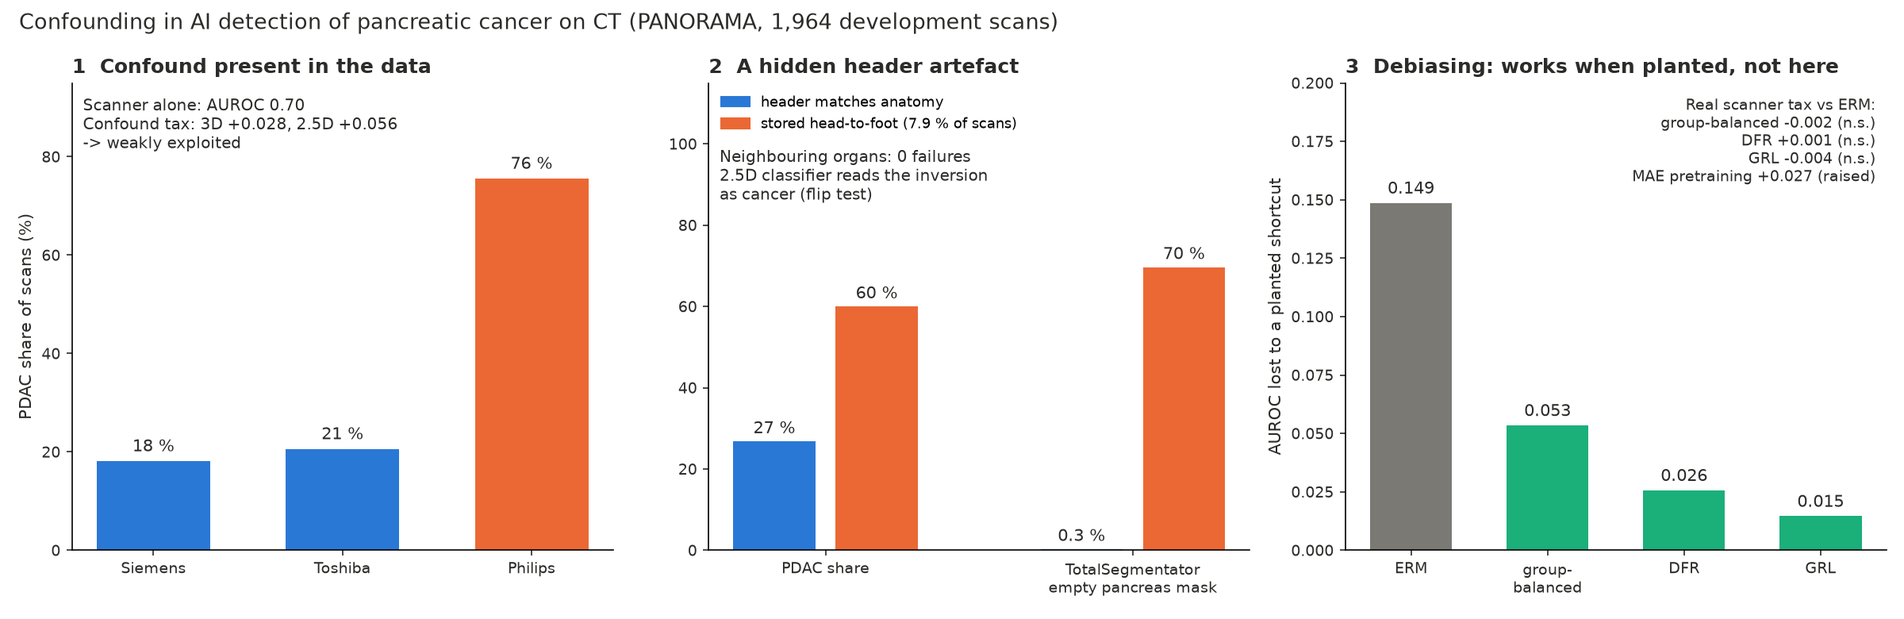
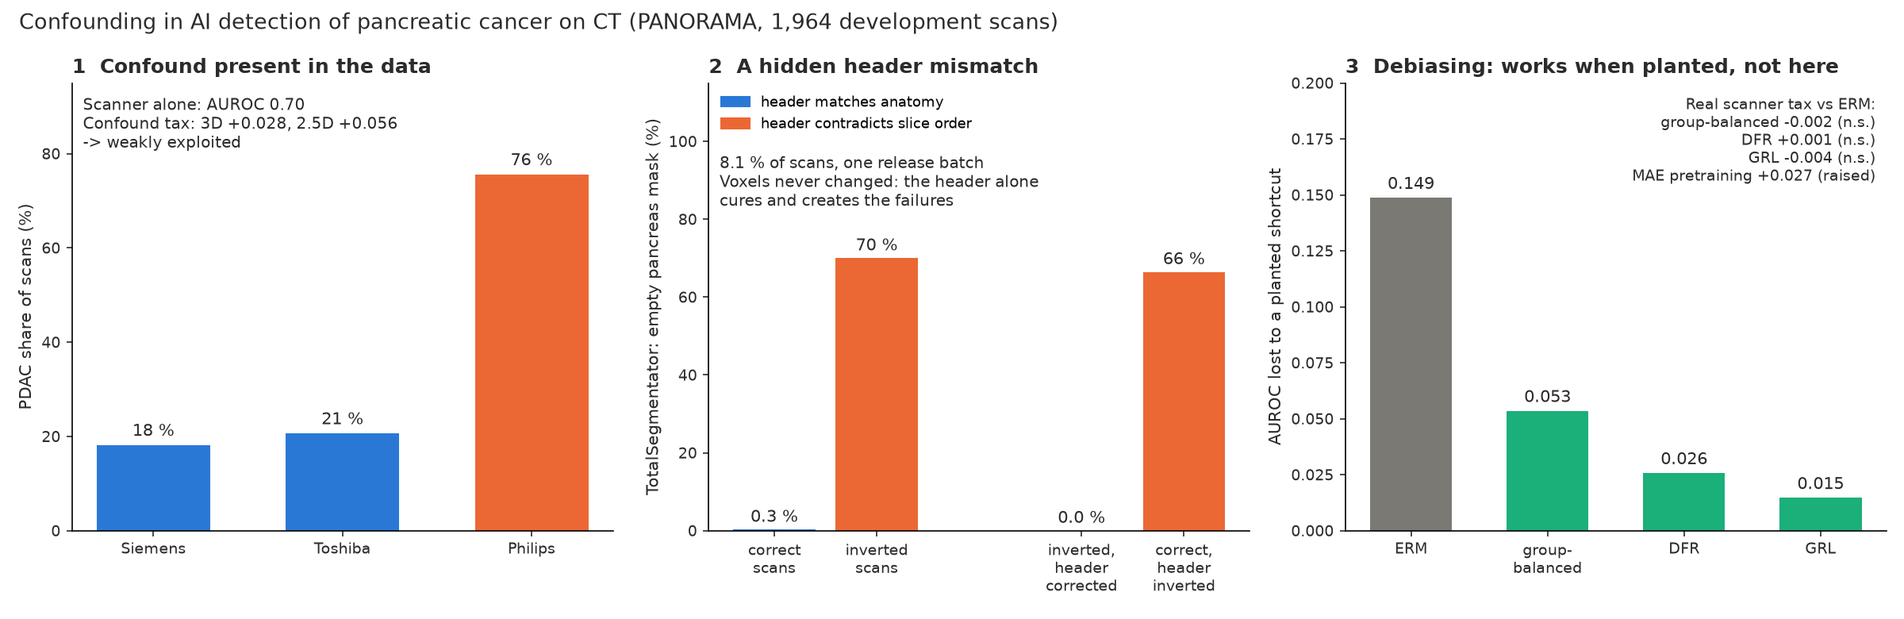
Orientation docs corrected: 160 scans, header shown as the cause, no cancer link within the batch; graphical abstract redrawn

diff --git a/tools/plot_graphical_abstract.py b/tools/plot_graphical_abstract.py
@@ -2,7 +2,7 @@
 
 Three panels, numbers read from the committed result tables:
   1. the confound in the data: PDAC share by scanner manufacturer; scanner-only AUROC and the two models' confound tax
-  2. the header artefact: PDAC share and TotalSegmentator failure rate, inverted vs correctly oriented scans
+  2. the header mismatch: TotalSegmentator failure rate as stored and with only the header corrected or inverted
   3. debiasing: AUROC lost to a planted shortcut (ERM vs debiasers) next to the change in the real scanner tax
 
     python tools/plot_graphical_abstract.py
@@ -29,10 +29,14 @@ def style(ax):
 def main():
     cv = pd.read_csv("reports/nnunet_summaries/tight_battery/cv_scores.csv")
     share = cv[cv.scanner.isin(["Siemens", "Toshiba", "Philips"])].groupby("scanner").y.mean().mul(100)
-    o = pd.read_csv("reports/deployment_roi/orientation_summary.csv")
-    seg = o[(o.block == "segmenter_failures") & (o.arm == "roi_subset pancreas")].set_index("orientation")
-    pd_inv = o[o.block == "inverted_vs_pdac"].iloc[0]
-    pl = pd.read_csv("reports/panel/planted_results.csv").set_index("arm")["drop"]
+    o = pd.read_csv("reports/deployment_roi/orientation_tests_summary.csv")
+    o = o[o.block == "ts_failure"]
+    fail = o.set_index("group").pct
+    broken = 100 * o[o.group.str.contains("header inverted")].failed.sum() / o[o.group.str.contains("header inverted")].n.sum()
+    adj = pd.read_csv("reports/deployment_roi/orientation_adjudicated_summary.csv")
+    c = adj[(adj.block == "failures") & (adj.arm == "roi_subset pancreas") & (adj.final == "correct")].iloc[0]
+    correct_failed = 100 * c.failed / c.n
+    pl =pd.read_csv("reports/panel/planted_results.csv").set_index("arm")["drop"]
     st = pd.read_csv("reports/panel/panel_stats.csv")
     tax = st[st.setting == "cv"].set_index("arm").tax_diff_vs_erm
 
@@ -51,17 +55,18 @@ def main():
 
     a = ax[1]
     x = [0, 1, 3, 4]
-    vals = [pd_inv.pdac_pct_other, pd_inv.pdac_pct_inverted, seg.loc["header_ok", "failed_pct"], seg.loc["inverted", "failed_pct"]]
+    vals = [correct_failed, fail["inverted, as stored"], fail["inverted, header corrected"], broken]
     a.bar(x, vals, color=[BLUE, ORANGE, BLUE, ORANGE], width=0.8)
     for xi, v in zip(x, vals):
         a.text(xi, v + 2, f"{v:.1f} %" if v < 1 else f"{v:.0f} %", ha="center", fontsize=10, color=INK)
-    a.set_xticks([0.5, 3.5], ["PDAC share", "TotalSegmentator\nempty pancreas mask"], fontsize=9.5)
+    a.set_xticks(x, ["correct\nscans", "inverted\nscans", "inverted,\nheader\ncorrected", "correct,\nheader\ninverted"], fontsize=9)
+    a.set_ylabel("TotalSegmentator: empty pancreas mask (%)", fontsize=10, color=INK)
     a.set_ylim(0, 115)
     a.legend(handles=[Patch(color=BLUE, label="header matches anatomy"),
-                      Patch(color=ORANGE, label="stored head-to-foot (7.9 % of scans)")],
+                      Patch(color=ORANGE, label="header contradicts slice order")],
              fontsize=8.5, frameon=False, loc="upper left")
-    a.set_title("2  A hidden header artefact", fontsize=12, loc="left", color=INK, weight="bold")
-    a.text(0.02, 0.86, "Neighbouring organs: 0 failures\n2.5D classifier reads the inversion\nas cancer (flip test)",
+    a.set_title("2  A hidden header mismatch", fontsize=12, loc="left", color=INK, weight="bold")
+    a.text(0.02, 0.84, "8.1 % of scans, one release batch\nVoxels never changed: the header alone\ncures and creates the failures",
            transform=a.transAxes, va="top", fontsize=9.5, color=INK)
     style(a)
 

diff --git a/tools/orientation_tests_summary.py b/tools/orientation_tests_summary.py
@@ -74,6 +74,13 @@ def totalseg(rows):
         g = r[(r.arm == arm) & (r.status == "ok")]
         print(f"{arm}: the masks not empty: Dice median {g.dice.median():.3f}, n {len(g)}")
         rows.append({"block": "ts_broken_nonempty_dice", "group": arm, "n": len(g), "dice_median": g.dice.median()})
+    for tag, nm in (("totalseg_nb", "neighbouring organs"), ("baseline_oof", "PANORAMA baseline")):
+        q = pd.read_csv(f"reports/deployment_roi/stage1_quality_{tag}_dutch.csv").merge(r[["case", "final"]].drop_duplicates(), how="left", on="case")
+        q = q.drop(columns="final").merge(pd.read_csv(ADJ)[["case", "final"]], on="case")
+        for st in ("inverted", "correct"):
+            v = q[q.final == st].dice_panc.median()
+            print(f"{nm}, {st} as stored: Dice median {v:.3f}")
+            rows.append({"block": "ts_other_segmenters_dice", "group": f"{nm}, {st}", "n": int((q.final == st).sum()), "dice_median": v})
     o = r[(r.final != "inverted") & r.failed_stage1 & r.arm.isin(["other", "fix"])]
     print("failures not inverted, header flipped:\n", o[["case", "final", "batch", "arm", "status"]].to_string(index=False))
 

diff --git a/tools/build_release.py b/tools/build_release.py
@@ -5,7 +5,7 @@ Contents (licence CC BY-NC 4.0, following the PANORAMA data licence):
                      json), as used for every 3D result and the deployment experiment
   panel_erm_2p5d/    the 15 ERM 2.5D soups (3 seeds x 5 CV folds) of the mitigation panel
 plus README.md and SHA256SUMS. Code, per-case scores and result tables are released from the GitHub repository at a
-tagged commit; the list of scans stored head-to-foot is reports/deployment_roi/orientation_check.csv.
+tagged commit; the list of scans stored head-to-foot is reports/deployment_roi/orientation_adjudicated.csv.
 
     python tools/build_release.py [--zip]
 Writes data/release/panorama_confound_audit_weights/ (git-ignored) and, with --zip, one zip per part.

diff --git a/docs/orientation_investigation.md b/docs/orientation_investigation.md
@@ -1,59 +1,100 @@
-# Inverted cranio-caudal orientation in PANORAMA (investigation, 2026-10-27)
+# Head-to-foot orientation in PANORAMA (investigation, 2026-10-27 to 2026-11-02)
 
-**Finding.** 155 of the 1,964 Dutch PANORAMA development scans (7.9 %) are stored with the cranio-caudal axis inverted
-relative to their NIfTI header: a reader that follows the header sees the body upside-down (lungs at the feet). The
-external MSD and NIH scans are unaffected (0 / 274). The inversion is strongly associated with PDAC, explains nearly all
-TotalSegmentator `roi_subset pancreas` failures, and the 2.5D classifier uses it as a shortcut.
+**Finding.** In 160 of the 1,964 Dutch PANORAMA development scans (8.1 %) the slice order contradicts the NIfTI header: a
+reader that follows the header sees the body upside down. Labels and masks are fine, because they share the voxel grid.
+All 160 are in one group of 245 released files. Rewriting only the header both cures and creates the TotalSegmentator
+failures. The mismatch has no detectable link with cancer within that group. The 2.5D classifier is sensitive to the
+direction, but correcting it leaves the confound tax unchanged.
 
-Because a widely used public dataset should not carry an error of this size, each link in the chain was checked
-separately.
+**This replaces the first version of this note (2026-10-27)**, which claimed 155 scans, a "curation artefact", "four times
+more common in PDAC" and a classifier "shortcut". See section 6 for what was wrong.
 
 ## 1. The files are PANORAMA's own, unmodified
-- Images come from the four Zenodo batch zips, each MD5-verified against the published checksum and extracted with
-  `tar` (no conversion; `data/raw/ct/panorama/INVENTORY.md`, `download.log`).
-- File modification times are those stored in the zips (15–18 April 2024 for all 155 inverted files; September 2024
-  for a few others), so no file was rewritten locally. No project tool writes into `data/raw/`.
-- Labels are at the latest `panorama_labels` commit (`bf1d6ba`, 2024-10-24). The labels share the image grid, so the
-  provided masks lie on the anatomy as stored; only the header-to-anatomy relation is wrong.
+- Images come from the four Zenodo batch zips, each MD5-verified and extracted with `tar` (no conversion;
+  `data/raw/ct/panorama/INVENTORY.md`, `download.log`). No project tool writes into `data/raw/`.
+- Labels are at `panorama_labels` commit `bf1d6ba` (2024-10-24).
+- **No PANORAMA DICOMs exist here.** The Zenodo release is 2,238 `.nii.gz` files only. The DICOM folders under
+  `data/raw/ct/` are the thesis collections (Pancreatic-CT-CBCT-SEG, Pancreas-CT), not PANORAMA. So the origin of the
+  mismatch cannot be proven from the sources.
 
-## 2. Anatomy disagrees with the header (`tools/orientation_check.py` -> `reports/deployment_roi/orientation_check.csv`)
-- Rule: after reorienting by the header to LPS (index increasing = superior), lung-density voxels (−950 to −600 HU) in a
-  central window should be at the high-index end. Inverted scans: lung at the low-index end (median 29 % of voxels,
-  minimum 3.6 %), none at the other end (maximum 7.6 %). 140 scans had no lung at either end and are left "unclear".
-- **Visual check:** mid-sagittal views of 8 random inverted and 4 random correct scans, laid out by the header, show the
-  pelvis and bowel at the top and the liver and heart at the bottom for every inverted scan, and the reverse for every
-  correct one; anterior–posterior and left–right agree in all twelve, so only the cranio-caudal axis is affected.
-- **Threshold robustness:** with lung cut-offs from 1 % to 10 % (ratio 2 to 10) the inverted count is 115–165, inverted
-  scans are 59–66 % PDAC against 27–28 % otherwise, and they hold 84–111 of the 118 TotalSegmentator failures.
+## 2. Which scans (`tools/orientation_adjudicate.py` -> `reports/deployment_roi/orientation_adjudicated.csv`)
+- A lung rule (`tools/orientation_check.py`) gave a first call. It made errors: 3 false positives (bowel gas, one rotated
+  scan) and 8 misses (no lung in the end slices).
+- Calls were reviewed on mid-sagittal (and where needed coronal) contact sheets: all 245 files of the group, all 129 other
+  scans the rule called inverted or unclear, and a random 80 of the other 1,590 (0 of 80 inverted; upper 95 % bound about
+  4 %, and these had also passed the lung rule). **The review was by the AI assistant, not a radiologist.** The changed
+  calls are listed in the script so they can be checked.
+- Result: 160 inverted, 1,802 correct, 1 rotated by 90° (101104), 1 uncertain (100199). External MSD and NIH: 0 of 274 by
+  the lung rule, not visually reviewed.
 
-## 3. The inverted files were written differently (header fields)
-- Every file declares the same orientation (qform: x −1, y −1, z +1). **152 of the 155 inverted files have
-  `sform_code = 0` with an empty sform**, against 79 of 1,669 correctly oriented files; so the inverted files came from a
-  different conversion run whose header did not encode the reversed slice order. There is no hidden correct matrix.
-- The inversion follows PANORAMA's `level` column (how the diagnosis was confirmed, a data-collection-stream marker
-  excluded from all models): inverted in 97 / 210 "pathology", 51 / 183 "cytology" and 5 / 6 "radiology / 3yFU" scans,
-  but 0 / 353 "histopathology" and 2 / 1,212 "radiology" scans. The inversion is therefore tied to one part of the data
-  curation, which is PDAC-rich; this explains its association with the label.
-- Not reported in the `panorama_labels` issue tracker or commit history (checked 2026-10-27); the organisers' forum
-  thread on dataset fixes was not accessible.
+## 3. Where it sits
+- The group is exact: `sform_code = 0` coincides with a gzip header written on Windows (OS byte 11) in 245 files. 160 of
+  them are inverted (65 %), and 0 of the other 1,719.
+- Inside the group, by manufacturer (inverted / correct): Siemens 99 / 17, Toshiba 43 / 1, Philips 18 / 43, other 0 / 23.
+  That pattern, and the origin values (origin minus stack length matches the foot-end distribution of correct scans:
+  Kolmogorov-Smirnov distance Siemens 0.54 -> 0.17, Toshiba 0.63 -> 0.34, Philips 1.00 -> 0.50), would fit a converter that
+  kept the vendor's slice order and ignored its direction. This is strong circumstantial evidence, not proof.
+- Not reported in the `panorama_labels` issue tracker or commit history (checked 2026-10-27); the organisers' forum thread
+  was not accessible.
 
-## 4. Consequences (`tools/orientation_analysis.py` -> `reports/deployment_roi/orientation_summary.csv`)
-- **Label association:** 60.0 % PDAC among inverted vs 26.8 % (OR 4.1, Fisher p = 2 × 10⁻¹⁶); within Siemens 60 % vs 13 %,
-  Toshiba 61 % vs 18 %.
-- **Segmenter failures:** `roi_subset pancreas` fails on 108 / 155 inverted (70 %) vs 5 / 1,669 correct (0.3 %) and
-  5 / 140 unclear; `robust_crop` 59 / 155 vs 2 / 1,669; with neighbouring organs 0 everywhere. This replaces the earlier
-  explanation ("chest-heavy scans with the pancreas near the lower edge"), whose geometry was measured in header
-  coordinates and so described these scans upside-down.
-- **Detectors (patient-disjoint evaluation set):** both reach AUROC 0.697 on the inverted scans. The 3D nnU-Net (trained
-  with mirroring) barely separates inverted from correct non-PDAC scans by its score (AUROC 0.63); the 2.5D classifier
-  does (0.89; median score 0.61 vs 0.02).
-- **Causal flip test** (`tools/orientation_flip_test.py`, inference with the saved ERM models; `orientation_flip_test.csv`):
-  correct non-PDAC scans flipped upside down rise from median 0.023 to 0.235; inverted non-PDAC scans flipped upright fall
-  from 0.607 to 0.163 (inverted PDAC 0.882 -> 0.590). The 2.5D classifier reads the inverted orientation as PDAC: a
-  label-correlated shortcut that nobody planted. Its pooled AUROC is not inflated by it (0.928 all vs 0.937 on correct
-  scans), because the shortcut mainly raises false-positive scores on inverted non-PDAC scans.
+## 4. Questions and answers
+
+### Q1. Does the header mismatch cause the TotalSegmentator failures? Yes (`tools/orientation_totalseg_test.py`)
+Same call as stage 1; voxels never changed, only the header's cranio-caudal direction. 353 runs, no errors.
+
+| Scans | Header | Empty pancreas | Dice (median) |
+|---|---|---|---|
+| Correct, as stored | matches | 5 / 1,802 (0.3 %) | 0.87 |
+| Inverted, as stored | contradicts | 112 / 160 (70.0 % [62.3, 77.0]) | |
+| Inverted, corrected | **rewritten to match** | **0 / 157** ([0, 2.3]) | 0.84 (IQR 0.78-0.88) |
+| Correct, Windows group | **rewritten to contradict** | 51 / 78 (65.4 % [53.8, 75.8]) | 0.39 where not empty |
+| Correct, other files | **rewritten to contradict** | 54 / 80 (67.5 % [56.1, 77.6]) | 0.39 where not empty |
+
+- Re-saving unchanged reproduced the stage-1 outcome in 30 of 30 scans.
+- All 112 failures recover after correction (median Dice 0.83, minimum 0.44).
+- The two "broken" groups do not differ (P = 0.87), nor from the inverted scans as stored (P = 0.55, 0.77). So it is the
+  header, not something else about that batch.
+- **The 48 inverted scans that "did not fail" were harmed too.** In 9 tested, Dice was 0.155 as stored and 0.818 corrected
+  (9 of 9 improve, P = 0.004).
+- **Other causes exist:** the 5 failures on correct scans (100597, 100481, 101033, 101621, 100455) and the rotated scan stay
+  empty after a flip. Unexplained, and few.
+- **Remedies compared on inverted scans:** corrected header Dice 0.84; neighbouring organs, header left wrong, 0.68 (0.89 on
+  correct scans); PANORAMA baseline 0.58 on both, so it does not depend on this.
+
+### Q2. Where did it come from? Unknown
+See section 3. One group of files, one likely mechanism, no way to confirm without the DICOMs or the organisers.
+
+### Q3. How much does the 2.5D classifier depend on it? Measurably, but it does not change the results
+`tools/orientation_flip_all.py`: all 1,939 evaluation scans reversed, scored by the held-out fold models, 3 seeds averaged.
+- Paired change: correct non-PDAC 0.023 -> 0.232 (98.8 % up); correct PDAC 0.896 -> 0.958; inverted non-PDAC 0.620 -> 0.173
+  (all down); inverted PDAC 0.896 -> 0.654.
+- Score separating inverted from correct non-PDAC scans, within scanner x `level`: 0.725 [0.613, 0.878] as stored, **0.484
+  [0.351, 0.654] with inverted scans upright**, so nothing is left once corrected. 3D model as stored: 0.529 [0.370, 0.653].
+- Headline numbers: inverted upright, AUROC 0.928 -> 0.923 (difference [-0.011, -0.001]), tax +0.051 -> +0.050. Every scan
+  upside down: 0.908, tax +0.059. Tax here uses seed-averaged scores, hence +0.051 against the panel's seed-level +0.056.
+- Not settled: whether the model learned a cue (inverted scans are PDAC-rich in the data as a whole) or reversed anatomy is
+  simply unfamiliar. Inference cannot separate these; retraining would.
+
+### Q4. Why was it linked to cancer? It is the batch, not the disease
+- Crude: 61.3 % vs 26.6 % PDAC (OR 4.36). This was the "four times" claim.
+- The group is PDAC-rich: 60.0 % vs 25.1 % of other files.
+- Inside the group: 61.3 % inverted vs 58.3 % correct (OR 1.13, P = 0.68). Mantel-Haenszel by batch 1.16 [0.68, 1.94]; by
+  `level` 0.84 [0.54, 1.31]; by scanner and `level` 0.76 [0.44, 1.33]. Wide intervals, so a small link is not excluded.
+- Failures still fall more on cancers (11.6 % vs 3.7 %), which matters for evaluation whatever the reason.
 
 ## 5. Recommendations
-- Report the affected case list to the PANORAMA organisers (author's decision).
-- Any pipeline on PANORAMA should check orientation against anatomy (or train with cranio-caudal mirroring), and
-  orientation-dependent tools such as TotalSegmentator should be run on corrected volumes.
+- Check header orientation against anatomy before running orientation-dependent tools, and correct the header if it
+  contradicts. Requesting neighbouring organs prevents the empty masks but gives poorer masks on these scans.
+- The affected case list is in `orientation_adjudicated.csv`. Reporting it to the organisers is the author's decision.
+
+## 6. What the first version got wrong
+- **155 / 7.9 %:** the lung rule's count. Reviewed: 160 / 8.1 %, all in one group.
+- **"Curation artefact", "separate conversion run":** inference stated as fact. The labels are fine and the images are
+  usable; only the header-to-slice-order relation is off.
+- **"Four times more common in PDAC":** marginal, explained by the group.
+- **"0.61 vs 0.02", AUROC 0.89:** compared against mostly `radiology` controls. Within scanner x `level` it is 0.725.
+- **"Both detectors reach only 0.70 on inverted scans":** those streams are simply hard (non-PDAC lesions).
+- Earlier still, "chest-heavy scans with the pancreas near the lower edge" came from geometry measured in header
+  coordinates.
+- `tools/orientation_analysis.py` and `tools/orientation_flip_test.py` (rule labels, 455 scans) are kept as the record but
+  superseded by `orientation_adjudicate.py`, `orientation_flip_all.py` and `orientation_tests_summary.py`.

diff --git a/DEAD_ENDS.md b/DEAD_ENDS.md
@@ -23,7 +23,7 @@ negative results and the answers to "did you try X?". Details are in `DEVLOG.md`
 | 2026-09 | TotalSegmentator pancreas masks for the training crop | fast 3 mm and full resolution on PANORAMA scans | empty pancreas on ~5–14 % (fast), some still empty at full resolution | the provided masks cover every case | never for training crops; it stays only as a deployment-ROI arm |
 | 2026-09/10 | Loose crop (150×100×40 mm, Dataset700) as the primary model | 5-fold CV + LOMO + external, nnU-Net 3d_fullres 250 ep | CV Dice ~0.33, cc_psz ~0.70; external MSD AUROC 0.713 (tight 0.505 / 0.787 / 0.823) | too much non-pancreas context; the field-standard tight margin wins clearly | never as primary; kept as the loose-tax robustness arm (+0.021 [−0.002, +0.045]) (ADR-004) |
 | 2026-10-05 | p_sum (summed foreground probability) as the detection score | tight CV, external, deployment | weakest score (mixed AUROC 0.731 vs cc_psz 0.793); the only one losing accuracy under predicted crops (−0.016 [−0.027, −0.005]) | sums scale with crop and lesion volume, not just confidence | only as a secondary score |
-| 2026-10-10/13 | TotalSegmentator as the deployment stage-1 segmenter | all 1,964 Dutch scans, full resolution, as published | 118 empty masks (6.0 %; Siemens 7.9 %, 24 % of Siemens PDAC; 0 of 274 external); deployed with failures called negative, AUROC 0.787 → 0.700 (−0.087 [−0.111, −0.063]), Siemens 0.807 → 0.587, tax +0.031 → +0.046 | failures are uneven across scanners and 3× more common on PDAC (11.7 % vs 3.5 %), (2026-10-27: explained by 155 scans (7.9 %) stored head-to-foot relative to their header, 4x more common in PDAC; see `docs/orientation_investigation.md`; the earlier 'chest-plus-upper-abdomen scans, pancreas near the lower edge' reading was in header coordinates) concentrated in chest-plus-upper-abdomen scans whose pancreas sits near the scan's lower edge (PDAC scans ending 50–150 mm below the pancreas fail 44–47 %); matched model held-out AUROC 0.83–0.86 | cause: the pancreas-only `roi_subset` cropping pass picks a tiny, misplaced region. On the 118 failures, adding neighbouring organs recovers 118, the full task 117, the documented `robust_crop` fix only 63 (PDAC 29 / 67) | reported as a deployment arm, not recommended as configured. Fixed by requesting neighbouring organs: 0 / 1964 failures, deployed AUROC 0.782 (oracle 0.787), tax +0.034. `robust_crop` alone: 66 failures, AUROC 0.719. The official PANORAMA baseline segmenter had 0 failures |
+| 2026-10-10/13 | TotalSegmentator as the deployment stage-1 segmenter | all 1,964 Dutch scans, full resolution, as published | 118 empty masks (6.0 %; Siemens 7.9 %, 24 % of Siemens PDAC; 0 of 274 external); deployed with failures called negative, AUROC 0.787 → 0.700 (−0.087 [−0.111, −0.063]), Siemens 0.807 → 0.587, tax +0.031 → +0.046 | failures are uneven across scanners and 3× more common on PDAC (11.7 % vs 3.5 %), (2026-11-02: 112 of the 118 are scans whose slice order contradicts their header, 160 scans in one PDAC-rich release batch; correcting only the header recovers all 112; see `docs/orientation_investigation.md`; the earlier 'chest-plus-upper-abdomen scans, pancreas near the lower edge' reading was in header coordinates) concentrated in chest-plus-upper-abdomen scans whose pancreas sits near the scan's lower edge (PDAC scans ending 50–150 mm below the pancreas fail 44–47 %); matched model held-out AUROC 0.83–0.86 | cause: the pancreas-only `roi_subset` cropping pass picks a tiny, misplaced region. On the 118 failures, adding neighbouring organs recovers 118, the full task 117, the documented `robust_crop` fix only 63 (PDAC 29 / 67) | reported as a deployment arm, not recommended as configured. Fixed by requesting neighbouring organs: 0 / 1964 failures, deployed AUROC 0.782 (oracle 0.787), tax +0.034. `robust_crop` alone: 66 failures, AUROC 0.719. The official PANORAMA baseline segmenter had 0 failures |
 | 2026-10-09/10 | Zenodo as the data source for a deployment pod | 3 pods, resumable downloads | Zenodo throttled globally to 7–180 KB/s; pods stopped with no compute done | an external server you don't control sets the pace; renting GPUs while waiting burns money | stage the data once to the volume (`panorama_raw_dutch.tar`), then rent compute |
 | 2026-10-10 | Run the largest Dutch scans (>150 M voxels) locally | stage 1 on a 1024×1024×331 scan | NIfTI export needs ~20 GB RAM; the watchdog stopped the job within a minute | doesn't fit next to the user's normal work (≤14 GB for jobs) | the user closes other apps, or on a pod; these scans are 45 % PDAC and must not be dropped |
 | 2026-10-19/25 | Debiasing the 2.5D classifier against the scanner confound (group-balanced sampling, DFR, GRL, MAE pretraining) | 5 CV + 3 LOMO folds x 3 seeds each vs tuned ERM; planted-shortcut control | no arm lowers the tax significantly (GBS -0.002, DFR +0.000, GRL -0.004; MAE raises it +0.026); every arm loses CV AUROC (DeLong p <= 0.002); GBS / GRL / MAE worse on unseen Siemens and Toshiba. The same methods remove 64-91 % of a planted shortcut | the methods work, but the real confound is weakly exploited and entangled with case mix (Philips 75 % PDAC); in-domain SSL learns acquisition texture | a new confound is much more strongly exploited than this one (tax well above +0.06) |

diff --git a/DEVLOG.md b/DEVLOG.md
@@ -167,7 +167,8 @@ The main validation steps currently used are:
 - 2026-10-25: thesis-cohort retrain: our pipeline trained on the two-source set reaches out-of-fold AUROC 0.996-0.999, then scores 0.659 on PANORAMA Dutch and 0.598 on MSD (PANORAMA-trained: 0.926 / 0.827); crop statistics alone separate the collections at 0.872. The thesis inflation is in the data
 - 2026-10-26: size-matched control: 96-scan PANORAMA-trained models reach 0.745 (Dutch) / 0.625 (MSD) vs thesis-trained 0.628 / 0.577; the cross-test drop is mostly training size, so the inflation claim rests on 0.996 vs 0.745 at matched size plus the 0.872 source probe, not on the cross-test
 - 2026-10-27: patient-disjoint re-scoring. nnU-Net's CV folds are drawn by scan and 9 of the 11 repeat-examination patients had scans in two folds; instead of retraining, every Dutch detection metric is now computed on the 1,939 single-examination patients (`tools/eval_cohort.py`; repeat scans stay in training). Old -> new: 3D tax +0.031 -> +0.028 [+0.007, +0.051], Dice 0.505 -> 0.507, LOMO 0.811/0.773/0.706 -> 0.812/0.779/0.702; 2.5D 0.926 -> 0.928, vs 3D +0.138 -> +0.140, ECE 0.039 -> 0.037; ERM tax +0.057 -> +0.056; MAE tax diff +0.026 -> +0.027 [+0.013, +0.043]; planted drops unchanged within 0.001; deployment AUROCs within 0.001, taxes 0.002 lower. AUROCs rose or held, so the scan split had not inflated anything. Tables, figures and docs updated; manuscript v6 (local)
-- 2026-10-27: inverted-header finding. 155/1,964 Dutch scans (7.9 %) store the cranio-caudal axis inverted relative to the header (`tools/orientation_check.py`); 108/118 TotalSegmentator `roi_subset pancreas` failures are these scans (70 % of inverted fail vs 0.3 % of correct); neighbouring organs: 0 failures. Inversion is label-correlated: 60 % PDAC vs 27 % (OR 4.1, Fisher p 2e-16; Siemens 60 % vs 13 %) (`tools/orientation_analysis.py`, `reports/deployment_roi/orientation_summary.csv`). The 2.5D ERM classifier uses it as a shortcut: inverted non-PDAC median score 0.61 vs 0.02; causal flip test (`tools/orientation_flip_test.py`, inference only): correct non-PDAC flipped upside down 0.023 -> 0.235, inverted non-PDAC flipped upright 0.607 -> 0.163. The 3D nnU-Net (mirroring augmentation) only weakly (AUROC score->inverted among non-PDAC 0.63). Supersedes the 'chest-heavy scan, pancreas near the lower edge' explanation (computed in header coordinates). Image figure `figures/panorama/fig_failure_case.png` (`tools/plot_failure_case.py`). Paper and docs not yet updated
+- 2026-10-27: inverted-header finding. 155/1,964 Dutch scans (7.9 %) store the cranio-caudal axis inverted relative to the header (`tools/orientation_check.py`); 108/118 TotalSegmentator `roi_subset pancreas` failures are these scans (70 % of inverted fail vs 0.3 % of correct); neighbouring organs: 0 failures. Inversion is label-correlated: 60 % PDAC vs 27 % (OR 4.1, Fisher p 2e-16; Siemens 60 % vs 13 %) (`tools/orientation_analysis.py`, `reports/deployment_roi/orientation_summary.csv`). The 2.5D ERM classifier uses it as a shortcut: inverted non-PDAC median score 0.61 vs 0.02; causal flip test (`tools/orientation_flip_test.py`, inference only): correct non-PDAC flipped upside down 0.023 -> 0.235, inverted non-PDAC flipped upright 0.607 -> 0.163. The 3D nnU-Net (mirroring augmentation) only weakly (AUROC score->inverted among non-PDAC 0.63). Supersedes the 'chest-heavy scan, pancreas near the lower edge' explanation (computed in header coordinates). Image figure `figures/panorama/fig_failure_case.png` (`tools/plot_failure_case.py`). Paper and docs not yet updated. **Corrected 2026-11-02, see below**
+- 2026-11-02: orientation finding corrected after the author's challenge. Visual review replaces the lung rule (`tools/orientation_adjudicate.py`): 160 inverted (8.1 %), all in the group of 245 files with `sform_code` 0 and a Windows gzip header, 0 of the other 1,719. Causal test (`tools/orientation_totalseg_test.py`, header only, voxels untouched): corrected 0 / 157 empty, all 112 failures recover (Dice 0.83); correct scans with the header inverted fail 51 / 78 and 54 / 80. Full flip test (`tools/orientation_flip_all.py`, 1,939 scans): score vs inversion within scanner x level 0.725 -> 0.484 once upright; AUROC 0.928 -> 0.923; tax +0.051 -> +0.050. No link with PDAC inside the group (OR 1.13, P 0.68). Summary: `tools/orientation_tests_summary.py`. "Curation artefact", "4x in PDAC" and "shortcut" withdrawn. PANORAMA DICOMs are not available locally, so the origin stays unproven. The RAM watchdog had silently never started for this job (unquoted `-Name` with spaces via `Start-Process`); caught and fixed mid-run. Draft v8 and both journal packages rebuilt.
 - open Q1 items: write-up (journal choice, declarations) (see `docs/q1_readiness_and_gaps.md` §9)
 
 ## Historical Caveats

diff --git a/docs/literature_novelty_check.md b/docs/literature_novelty_check.md
@@ -9,7 +9,7 @@ before submission.
 | # | Our contribution | Verdict | Closest prior work | Positioning |
 |---|---|---|---|---|
 | 1 | Measured scanner confound in PANORAMA (Cramér's V 0.44, scanner-only AUROC 0.70) and a confound tax with a patient-bootstrap CI, plus LOMO and external | **Novel** ⚠ | No analysis of a vendor/label confound in PANORAMA found; the PANORAMA commentary presents vendor diversity as a strength (Hunsaker). Generic acquisition-bias work: Ong Ly 2024 (npj DM, up to 20 % overestimation from acquisition bias); "Name that manufacturer" (head CT, vendor is learnable); BenchX 2026 (subgroup evaluation incl. contrast phase, 85k CTs, no confound measure, no mitigation) | Lead claim. Cite Ong Ly and BenchX as the general frame; ours is a measured, quantified confound in the flagship public PDAC cohort |
-| 2 | Deployment-ROI: oracle vs predicted pancreas crops with real segmenters; TotalSegmentator `roi_subset` fails on 6 % (3x more on PDAC; 108 of 118 are scans stored head-to-foot relative to their header, a curation artefact 4x more common in PDAC, which the 2.5D classifier also learned), the documented `robust_crop` recovers half, neighbouring organs recover all; failures raise the tax | **Novel** | No study found that runs one PDAC detector on ground-truth vs predicted pancreas crops. Adjacent: Radiology 2022 nationwide study (9 % tumour mislocalisation by the segmenter); PanDx two-stage design; segmenter benchmarks (TotalSegmentator best of five on 352 CTs) measure Dice, not detection | Lead claim, with the actionable fix (request neighbouring organs) and the failure mechanism |
+| 2 | Deployment-ROI: oracle vs predicted pancreas crops with real segmenters; TotalSegmentator `roi_subset` fails on 6 % (3x more on PDAC; 112 of 118 are scans whose slice order contradicts their header, and correcting only the header recovers all 112), the documented `robust_crop` recovers half, neighbouring organs recover all; failures raise the tax | **Novel** | No study found that runs one PDAC detector on ground-truth vs predicted pancreas crops. Adjacent: Radiology 2022 nationwide study (9 % tumour mislocalisation by the segmenter); PanDx two-stage design; segmenter benchmarks (TotalSegmentator best of five on 352 CTs) measure Dice, not detection | Lead claim, with the actionable fix (request neighbouring organs) and the failure mechanism |
 | 3 | Mitigation panel on a real acquisition confound: tuned ERM not beaten (GBS, DFR, GRL, MAE), planted-shortcut positive control shows the same methods remove 64–90 % of a planted shortcut; MAE raises the tax | **Partly known** | "ERM is hard to beat": DomainBed, MEDFAIR (ICLR 2023: 11 methods, no significant gain over ERM), Yang et al. Nat Med 2024 (debiasing closes in-distribution gaps but does not transfer). Disentanglement benchmark 2026 (Müller & Berens; synthetic OCT confound). Planted/synthetic bias as a tool: Stanley et al. 2024 (eBioMedicine). Foundation models encode centre: de Jong et al. 2025 (pathology) | Do NOT headline "debiasing does not beat ERM". Novel parts: (a) a measured acquisition confound in 3D CT cancer detection with the tax as the target; (b) the planted-shortcut positive control that separates "methods broken" from "nothing removable"; (c) CT masked-image pretraining increases scanner reliance (consistent with de Jong in pathology, new for CT SSL) |
 | 4 | 2.5D classifier vs 3D segmentation model: far better in-distribution (+0.138), larger tax, ties externally | **Supporting, moderately novel** | Lesion-level vs image-level supervision and shortcuts in radiographs (arXiv 2104.10553) | Frame as evidence that dense lesion supervision anchors the model; cite the radiograph study |
 | 5 | Site confound in the Debernardi urinary biomarker cohort (all controls from one site, V 0.42, site-only AUROC 0.68, tax +0.062) | **Novel observation** | No published critique found. Debernardi 2022 (prediagnostic cohort) reports AUC 0.79, below the 2020 case-control 0.94, consistent with our finding | Secondary result; widely reused public dataset, so the warning is useful |

diff --git a/docs/README.md b/docs/README.md
@@ -8,7 +8,7 @@ current work; the **thesis-era** block documents the original 2D pipeline.
 |---|---|
 | [`../README.md`](../README.md) | What the project is, current status in one screen |
 | [`q1_readiness_and_gaps.md`](q1_readiness_and_gaps.md) | **The living Q1 plan:** findings so far, novelty positioning, gap list, experiment matrix, sequence |
-| [`orientation_investigation.md`](orientation_investigation.md) | 155 Dutch PANORAMA scans stored head-to-foot relative to their header: evidence chain (provenance, anatomy, header fields, data-collection stream), effect on TotalSegmentator and the 2.5D classifier |
+| [`orientation_investigation.md`](orientation_investigation.md) | 160 Dutch PANORAMA scans whose slice order contradicts their header: reviewed labels, where they sit, the header experiments on TotalSegmentator, the flip test on the 2.5D classifier, the link with cancer, and what the first version got wrong |
 | [`journal_requirements.md`](journal_requirements.md) | Paper 1 submission requirements: MedIA (target; incl. the 18-question Statement of Significance with planned answers) and Radiology: AI (fallback), each against draft v6 |
 | [`literature_novelty_check.md`](literature_novelty_check.md) | Pre-write-up literature search (2026-10-25): verdict per contribution (novel / partly known / supporting), closest prior work, positioning, sources |
 | [`data_layout.md`](data_layout.md) | Where every dataset, model checkpoint and result lives locally, the RunPod volume ↔ local map, and **where new files go** |
@@ -54,6 +54,6 @@ current work; the **thesis-era** block documents the original 2D pipeline.
 | `tools/plot_graphical_abstract.py` | Graphical abstract (MedIA): scanner confound, header artefact, debiasing on a planted vs the real shortcut |
 | `tools/build_release.py` | Stages the model-weight release (5 tight 3D CV models, 15 ERM 2.5D soups, README, SHA256SUMS) in `data/release/` for the author to upload to Zenodo |
 | `tools/plot_failure_case.py` | Fig. 3: a failure case stored head-to-foot, coronal (as stored and anatomical) and axial with the crops |
-| `tools/orientation_check.py`, `tools/orientation_analysis.py`, `tools/orientation_flip_test.py` | Orientation vs anatomy per scan; what the inversion explains; flip test on the 2.5D classifier |
+| `tools/orientation_check.py`, `tools/orientation_adjudicate.py`, `tools/orientation_totalseg_test.py`, `tools/orientation_flip_all.py`, `tools/orientation_tests_summary.py` | Lung rule; reviewed labels and link with cancer; header experiments on TotalSegmentator; flip test on all scans; results of both. `tools/orientation_analysis.py` and `tools/orientation_flip_test.py` are superseded |
 | `tools/plot_paper_figures.py` | Manuscript figures: Fig. 1 study design and the supplementary figures (TotalSegmentator failure geometry, subgroup AUROCs, calibration, thesis case study) |
 | `tools/thesis_control.py`, `tools/thesis_control_eval.py`, `tools/thesis_retrain.py` | Thesis two-source set through the PANORAMA deployment pipeline; our recipe retrained on it, cross-tested on PANORAMA, size-matched control, crop-statistics source probe |

diff --git a/README.md b/README.md
@@ -15,7 +15,7 @@ The Q1 work uses PANORAMA (2,238 contrast-enhanced CTs; 1,964 Dutch scans for tr
 - **The confound is real in the data:** scanner manufacturer alone predicts PDAC with AUROC 0.70 (Philips scans are 75% PDAC, Siemens/Toshiba ~19%).
 - **The 3D model exploits it only weakly:** confound tax +0.028 AUROC [+0.007, +0.051], no penalty when a whole manufacturer is held out, external MSD AUROC 0.82 [0.76, 0.88].
 - **It survives real deployment:** cropping from a predicted pancreas mask costs <= 0.012 AUROC when the segmenter never fails; TotalSegmentator used as documented (`roi_subset pancreas`) silently fails on 6 % of scans (mostly cancer and Siemens scans), costing 0.087 AUROC and raising the tax to +0.044; requesting the neighbouring organs fixes every failure. Figure: `figures/panorama/deployment_arms.png`.
-- **A hidden header artefact:** 155 scans (7.9 %) stored head-to-foot relative to their header, 4x more common in PDAC. It explains 108 of the 118 TotalSegmentator failures, and the 2.5D classifier learned it as a cancer cue (flip test). See `docs/orientation_investigation.md`.
+- **A hidden header mismatch:** in 160 scans (8.1 %, all in one release batch of 245 files) the slice order contradicts the header. It accounts for 112 of the 118 TotalSegmentator failures: correcting only the header recovers all 112, and inverting it on correct scans produces failures in 66 %. No detectable link with cancer within that batch; the 2.5D classifier is sensitive to the direction, but its confound tax does not change. See `docs/orientation_investigation.md`.
 - **A stronger 2.5D classifier uses the confound more:** Dutch AUROC 0.928 vs 0.788 (DeLong p<0.001) but tax +0.056 and a tie with the 3D model on external MSD (0.827 vs 0.823).
 - **Debiasing does not beat tuned ERM on the real confound:** group-balanced sampling, DFR, GRL and MAE pretraining lower no tax significantly and all cost accuracy (MAE raises the tax, +0.027 [+0.013, +0.043]); yet the same methods remove 64–90 % of a deliberately planted shortcut, so the methods work and the real confound is weakly exploitable. Figure: `figures/panorama/mitigation_panel.png`.
 - **The urinary biomarker cohort is confounded too:** all healthy controls come from one site; site alone predicts PDAC at AUROC 0.68, site tax +0.062 [+0.027, +0.098].

diff --git a/docs/q1_readiness_and_gaps.md b/docs/q1_readiness_and_gaps.md
@@ -97,7 +97,7 @@ All external/segmenter/probe tests are **inference-only (cheap)** — run for bo
 Status of each step is updated here as it is done.
 **Scope decision (2026-10-26, author):** paper 1 covers the scanner confound, deployment-ROI and the mitigation panel only. The biomarker audit, fusion simulation and thesis-cohort control are kept in the repo (`reports/biomarker_confound.csv`, `reports/fusion/`, `reports/thesis_control/`) as material for a possible second paper. Focused draft: `paper/manuscript_draft_v5.md` (local).
 
-**Submission packages (2026-10-27):** `paper/medIA/` (target) and `paper/radiology_ai/` (fallback), built from draft v7, which adds the orientation finding (`docs/orientation_investigation.md`). Status and remaining author items: `docs/journal_requirements.md` §0.
+**Submission packages (2026-10-27):** `paper/medIA/` (target) and `paper/radiology_ai/` (fallback), built from draft v8, which has the corrected orientation finding (`docs/orientation_investigation.md`). Status and remaining author items: `docs/journal_requirements.md` §0.
 
 **Patient-disjoint evaluation (2026-10-27):** the CV folds (nnU-Net default) were drawn by scan, so 9 of the 11 repeat-examination patients had scans in two folds. Rather than retrain, every Dutch detection metric was re-scored on the 1,939 single-examination patients (`tools/eval_cohort.py`), which removes any test patient seen in training; all changes <= 0.006 and AUROCs rose or held, so the split did not inflate the results. Draft `paper/manuscript_draft_v6.md` reports this as the evaluation design, not as a limitation. Reporting checklists: answer the partition item as "folds by scan; evaluation restricted to patients with a single examination, so test patients are disjoint from training".
 1. **Choose the target journal** (Medical Image Analysis vs npj Digital Medicine; sets word limit, trimming and citation style: MedIA uses author–year). — DONE 2026-10-27: **MedIA at the current length**; Radiology: AI is the fallback. Sole author, no funding, no competing interests. Every requirement of both journals, with planned answers and gaps: [`journal_requirements.md`](journal_requirements.md)

diff --git a/docs/deployment_and_mitigation_design.md b/docs/deployment_and_mitigation_design.md
@@ -19,7 +19,7 @@ grandmasters we study (`D:/Documents/Projects/Kaggle/Grandmasters/`: ren4yu, ser
 At a glance (details in the dated blocks below; prior work and positioning in `docs/literature_novelty_check.md`).
 **2026-10-27: Dutch detection metrics are scored on the patient-disjoint evaluation set: the 1,939 patients with a single examination (`tools/eval_cohort.py`); the 25 scans of the 11 repeat-examination patients stay in training only. The committed result tables and the numbers in this summary and the four-arm table are the patient-disjoint ones; the dated blocks below record the all-scan values as first computed (every change <= 0.006, no conclusion changed; old vs new in DEVLOG 2026-10-27).**
 - **A. Deployment-ROI:** a segmenter that never fails matches the oracle crop (0.775-0.783 vs 0.787, tax ~+0.03);
-  TotalSegmentator `roi_subset pancreas` fails on 6 %, 108 of the 118 on the 155 scans (7.9 %) stored head-to-foot relative to their header, 4x more common in PDAC; see `docs/orientation_investigation.md`; AUROC 0.700, tax
+  TotalSegmentator `roi_subset pancreas` fails on 6 %, 112 of the 118 on the 160 scans (8.1 %) whose slice order contradicts their header, all in one PDAC-rich release batch; see `docs/orientation_investigation.md`; AUROC 0.700, tax
   +0.044; `robust_crop` recovers half; neighbouring organs recover all.
 - **B. Mitigation panel (2.5D):** tuned ERM CV 0.920 / tax +0.056 / external 0.884; GBS, DFR, GRL lower no tax
   significantly and all cost accuracy; MAE raises the tax (+0.027 [+0.013, +0.043]); the planted-shortcut control

diff --git a/docs/journal_requirements.md b/docs/journal_requirements.md
@@ -17,7 +17,7 @@ must also be non-commercial.
   `README.md` lists every requirement and what is left for the author.
 - `paper/radiology_ai/`: full title page, cover letter, anonymised 2,254-word manuscript (structured abstract, summary
   statement, key points, 25 numbered references, 3 tables), Appendix E1, CLAIM table, figures; own `README.md`.
-- Master draft for both: `paper/manuscript_draft_v7.md` (includes the orientation finding,
+- Master draft for both: `paper/manuscript_draft_v8.md` (rebuilt 2026-11-02 with the corrected orientation finding,
   `docs/orientation_investigation.md`). Model weights staged by `tools/build_release.py` for the author's Zenodo upload.
 - Left for the author in both: affiliation and contact details, ORCID, AI-use wording, Zenodo DOI, .docx conversion,
   official CLAIM form; MedIA also the vitae and a check of the PANORAMA collective-author name.
